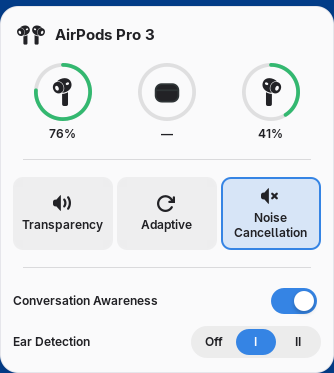
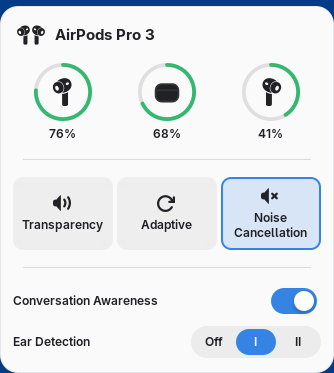
Use neutral project identity and show case battery in previews

Changed region(s): [[0.4192, 0.2064, 0.5988, 0.3834], [0.479, 0.1475, 0.5689, 0.2064]]

diff --git a/tests/shell-smoke.js b/tests/shell-smoke.js
@@ -71,6 +71,11 @@ export async function run() {
     await Scripting.sleep(300);
     const screenshotDir = GLib.getenv('AIRPODS_SCREENSHOT_DIR');
     {
+        const previewStatus = {...status, batteries: status.batteries.map(([name, battery]) =>
+            [name, name === 'Case' ? {...battery, level: 68} : battery])};
+        extension._render(previewStatus);
+        assert(extension._batteries[2].percent.text === '68%', 'Reported case battery was not displayed');
+        await Scripting.sleep(100);
         const takeScreenshot = async name => {
             if (!screenshotDir) return;
             const actor = extension._button.menu.actor;
@@ -85,10 +90,10 @@ export async function run() {
             }
         };
         await takeScreenshot('menu');
-        extension._render({...status, ear: 1});
+        extension._render({...previewStatus, ear: 1});
         await Scripting.sleep(100);
         await takeScreenshot('menu-ear-both');
-        extension._render(status);
+        extension._render(previewStatus);
         const context = St.ThemeContext.get_for_stage(global.stage);
         const darkTheme = context.get_theme();
         const lightTheme = new St.Theme({default_stylesheet:
@@ -98,7 +103,7 @@ export async function run() {
         await Scripting.sleep(200);
         await takeScreenshot('menu-light');
         context.set_theme(darkTheme);
-        extension._render({...status, modes: [0, 2, 3, 1]});
+        extension._render({...previewStatus, modes: [0, 2, 3, 1]});
         await Scripting.sleep(100);
         for (const button of extension._modes) {
             const caption = button.get_child().get_last_child();

diff --git a/model.js b/model.js
@@ -1,5 +1,5 @@
 // SPDX-License-Identifier: GPL-3.0-or-later
-// Copyright (C) 2026 Vinit Patel
+// Copyright (C) 2026 AirPods for GNOME contributors
 // Schema 1 adapter for the AirPods GNOME Rust backend. No Shell dependencies.
 export const MODES = [
     ['Off', 'noise:off'],

diff --git a/backend.js b/backend.js
@@ -1,5 +1,5 @@
 // SPDX-License-Identifier: GPL-3.0-or-later
-// Copyright (C) 2026 Vinit Patel
+// Copyright (C) 2026 AirPods for GNOME contributors
 import Gio from 'gi://Gio';
 import GLib from 'gi://GLib';
 import {parseStatus, validCommand} from './model.js';

diff --git a/extension.js b/extension.js
@@ -1,5 +1,5 @@
 // SPDX-License-Identifier: GPL-3.0-or-later
-// Copyright (C) 2026 Vinit Patel
+// Copyright (C) 2026 AirPods for GNOME contributors
 import St from 'gi://St';
 import Gio from 'gi://Gio';
 import GLib from 'gi://GLib';

diff --git a/AGENTS.md b/AGENTS.md
@@ -1,6 +1,7 @@
 # Project conventions
 
-- Keep personal names out of the README.
+- Use project identifiers and contributor attribution. Keep local usernames and
+  machine-specific paths out of tracked files; preserve upstream credits.
 - Build from `daemon/` and regenerate icons from `assets/AirPodsIcon.qml`;
   never download another project's checkout during a build.
 - Preserve upstream licenses and provenance. Output belongs in `build/` and
